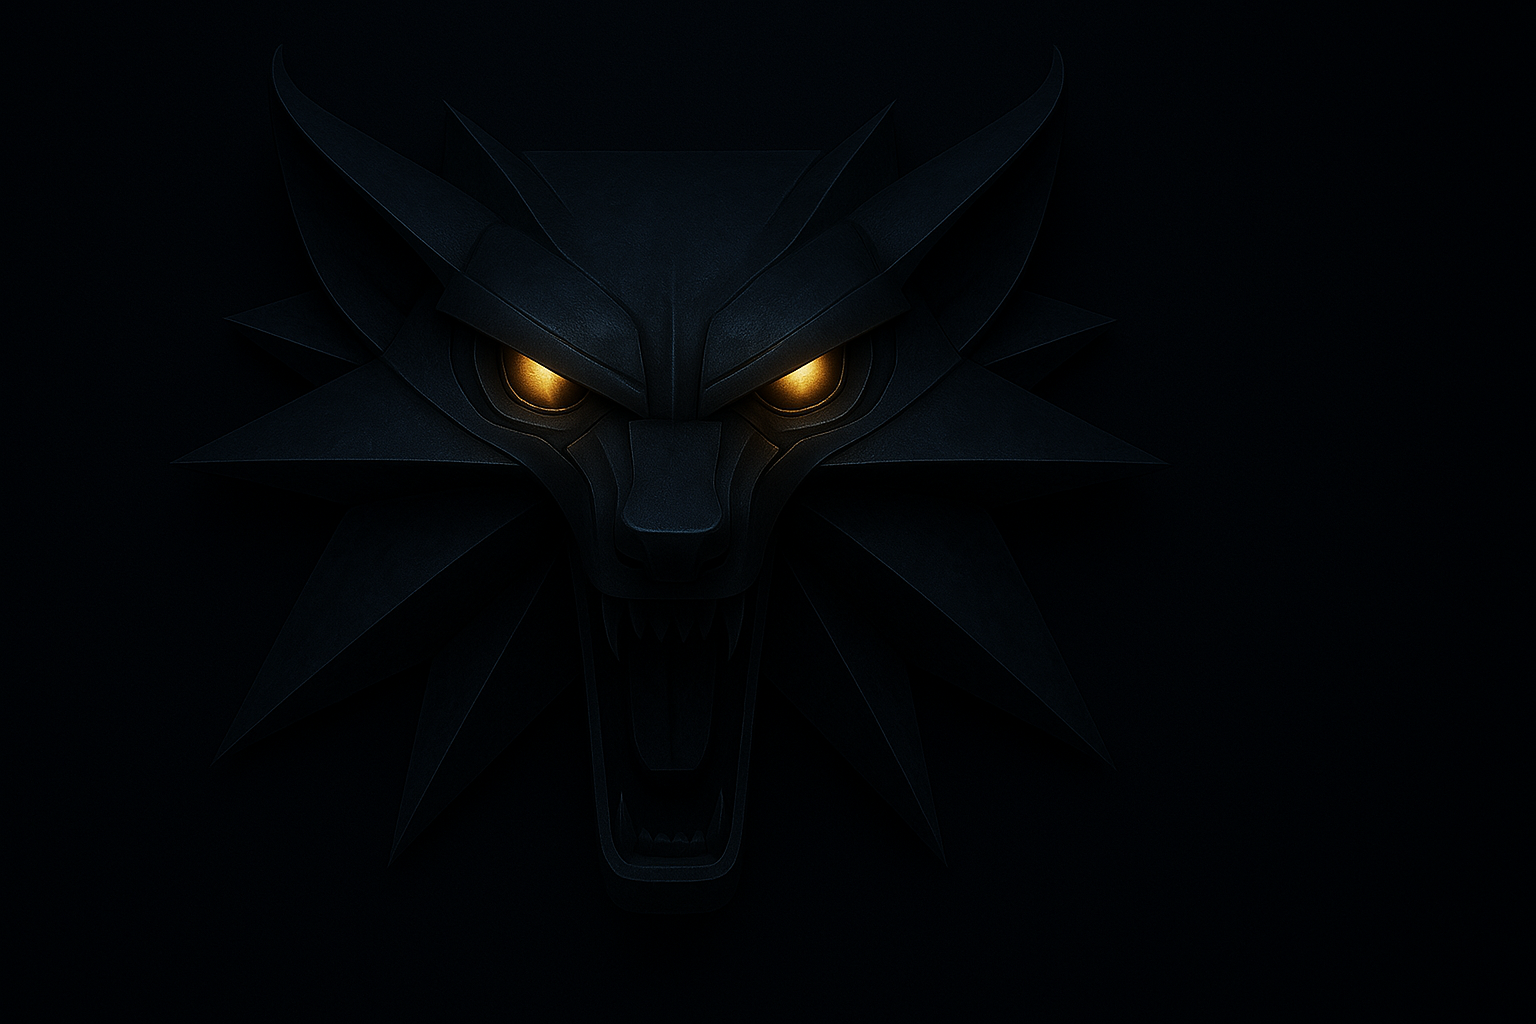
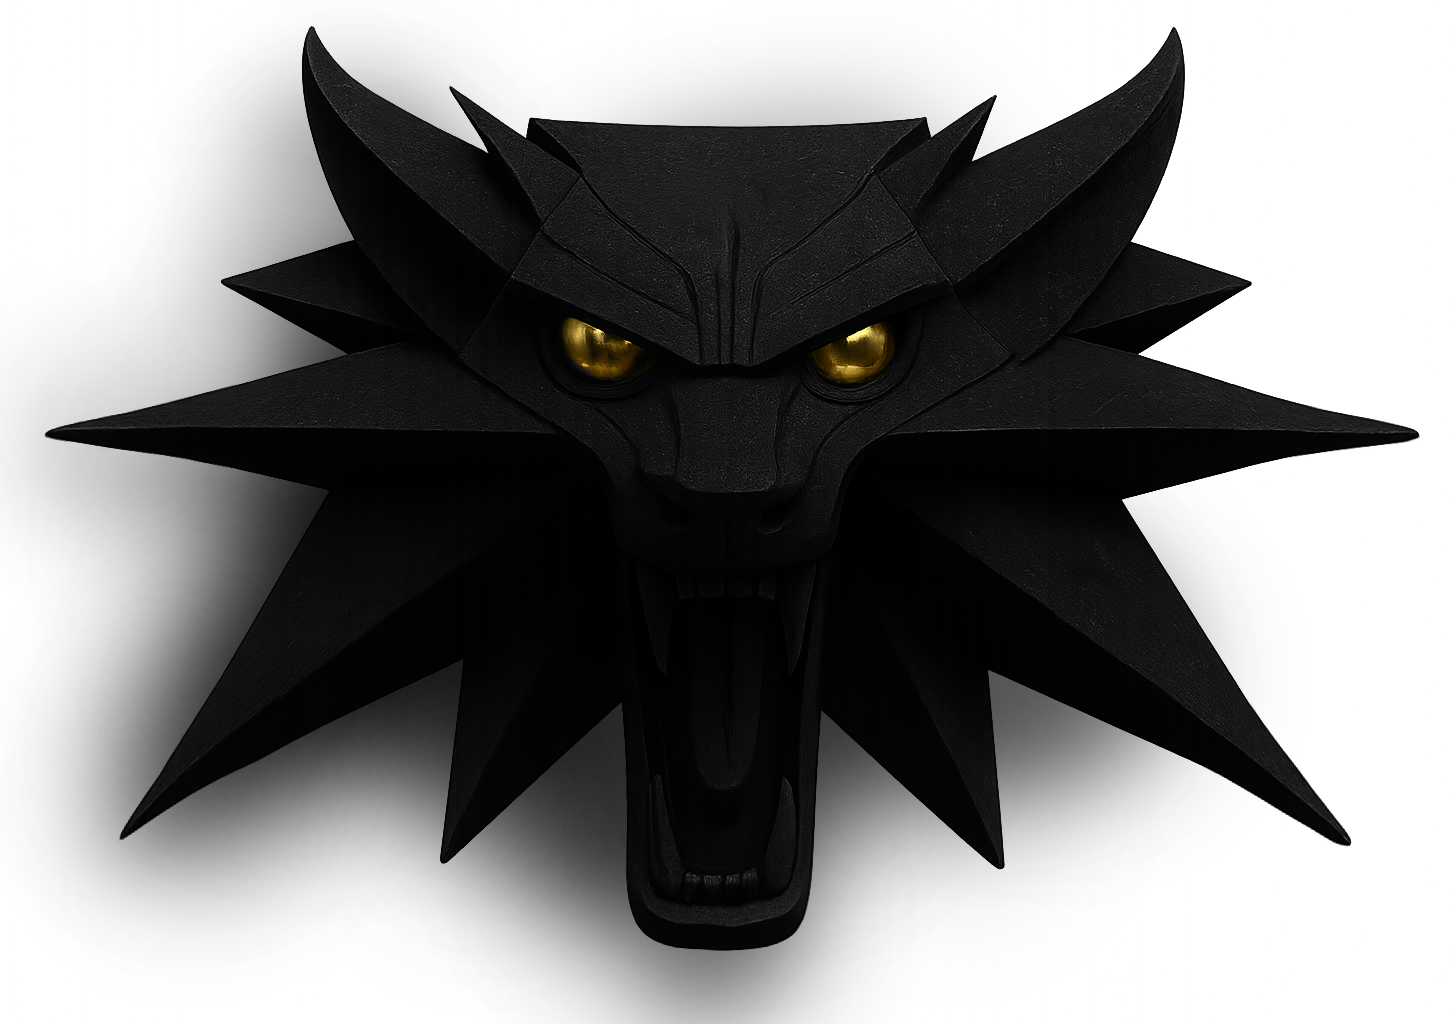
home background and catalog updated

diff --git a/client/vite-project/src/App.jsx b/client/vite-project/src/App.jsx
@@ -9,26 +9,15 @@ import Login from "./components/Login";
 import Register from "./components/Register";
 import AboutUs from "./components/AboutUs";
 import Contact from "./components/Contact";
-import amulet from "./assets/homeBackground.png"
+import MonsterDetails from "./components/MonsterDetails";
+
 
 
 function App() {
-    const location = useLocation()
-    const [backgroundClassName, setbackgroundClassName] = useState({})
-    useEffect(()=>{
-        if (location.pathname === "/"){
-            setbackgroundClassName(
-                {backgroundImage:`url(${amulet})`,
-                
-            })
-        }else{
-            setbackgroundClassName({})
-        }
-    },[location.pathname])
-    
+   
     return (
         <UserProvider>
-            <div className="main-container" style={backgroundClassName} >
+            <div className="main-container"  >
                 <Header />
                 <div className="routes-container">
                     <Routes>
@@ -38,6 +27,7 @@ function App() {
                         <Route path="/register" element={<Register />} />
                         <Route path="/aboutus" element={<AboutUs/>} />
                         <Route path="/contact" element={<Contact/>} />
+                        <Route path="/monster/:id" element={<MonsterDetails/>} />
                     </Routes>
                 </div>
             </div>

diff --git a/client/vite-project/src/App.css b/client/vite-project/src/App.css
@@ -27,7 +27,6 @@
     display: flex;
     flex-direction: column;
     align-items: center;
-    
 }
 
 .header-container {
@@ -54,7 +53,12 @@
 }
 
 .routes-container {
-    max-width: 1400px;
+    max-width: 1454px;
+    overflow-x: hidden;
+    width: 100%;
+    display: flex;
+    flex-direction: column;
+    align-items: center;
 }
 
 .column {
@@ -73,7 +77,8 @@ textarea {
     box-shadow: -10px 10px 30px #0e0e0e;
     margin: 40px 40px;
     position: relative;
-    z-index: -2;
+    z-index: 1;
+    cursor: pointer;
 }
 
 .monster-image {
@@ -81,7 +86,7 @@ textarea {
     right: -69px;
     top: -90px;
     width: 300px;
-    z-index: -1;
+    z-index: 2;
 }
 
 .monsters-catalog {
@@ -101,6 +106,9 @@ textarea {
     max-width: 290px;
     line-height: 60px;
     text-align: left;
+    z-index: 3;
+    
+
 }
 
 .monster-card-author {
@@ -110,4 +118,8 @@ textarea {
     bottom: 0px;
 }
 
-
+.home-background-amulet {
+    width: 100%;
+    height: 1000px;
+    background-repeat: no-repeat;
+}

diff --git a/client/vite-project/src/components/Catalog.jsx b/client/vite-project/src/components/Catalog.jsx
@@ -11,21 +11,8 @@ export default function Catalog() {
                 {monsters.map((monster) => (
                     <Monster {...monster} key={monster._id} />
                 ))}
-                 {monsters.map((monster) => (
-                    <Monster {...monster} key={monster._id} />
-                ))}
-                 {monsters.map((monster) => (
-                    <Monster {...monster} key={monster._id} />
-                ))}
-                 {monsters.map((monster) => (
-                    <Monster {...monster} key={monster._id} />
-                ))}
-                 {monsters.map((monster) => (
-                    <Monster {...monster} key={monster._id} />
-                ))}
-                 {monsters.map((monster) => (
-                    <Monster {...monster} key={monster._id} />
-                ))}
+                
+               
             </div>
         </>
     );

diff --git a/client/vite-project/src/components/Monster.jsx b/client/vite-project/src/components/Monster.jsx
@@ -1,3 +1,5 @@
+import { useNavigate } from "react-router";
+
 export default function Monster({
     _id,
     name,
@@ -6,10 +8,18 @@ export default function Monster({
     weaknesses,
     powers,
 }) {
+    const navigate = useNavigate()
+    function monsterDetailsClickHandler(){
+        console.log("Gdg");
+        
+        navigate(`/monster/${_id}`)
+    }
+    
     return (
-        <div className="monster-card">
+        <div className="monster-card" onClick={monsterDetailsClickHandler}>
             <img
                 className="monster-image"
+                onClick={monsterDetailsClickHandler}
                 src={
                     "https://cdn.discordapp.com/attachments/343810753976991744/1358896104028241990/ChatGPT_Image_Apr_3_2025_02_56_58_AM.png?ex=67f5821e&is=67f4309e&hm=08656e7694566230bd5eac9400929f2a332a1daf9a35c6fb4e70c2e103c0ae82&"
                 }

diff --git a/client/vite-project/src/components/Home.jsx b/client/vite-project/src/components/Home.jsx
@@ -1,7 +1,9 @@
+import amulet from "../assets/homeBackground.png"
+
 export default function Home() {
    return (
-     <>
+     <div  className={"home-background-amulet"} style={{backgroundImage:`url(${amulet})`}}>
      <h1>Home</h1>
-     </>
+     </div>
    );
 }

diff --git a/client/vite-project/src/index.css b/client/vite-project/src/index.css
@@ -30,6 +30,7 @@
     text-rendering: optimizeLegibility;
     -webkit-font-smoothing: antialiased;
     -moz-osx-font-smoothing: grayscale;
+    overflow-x: hidden;
 }
 
 a {

diff --git a/client/vite-project/src/components/MonsterDetails.jsx b/client/vite-project/src/components/MonsterDetails.jsx
@@ -1,0 +1,8 @@
+export default function MonsterDetails() {
+
+   return (
+     <>
+        
+     </>
+   );
+}
